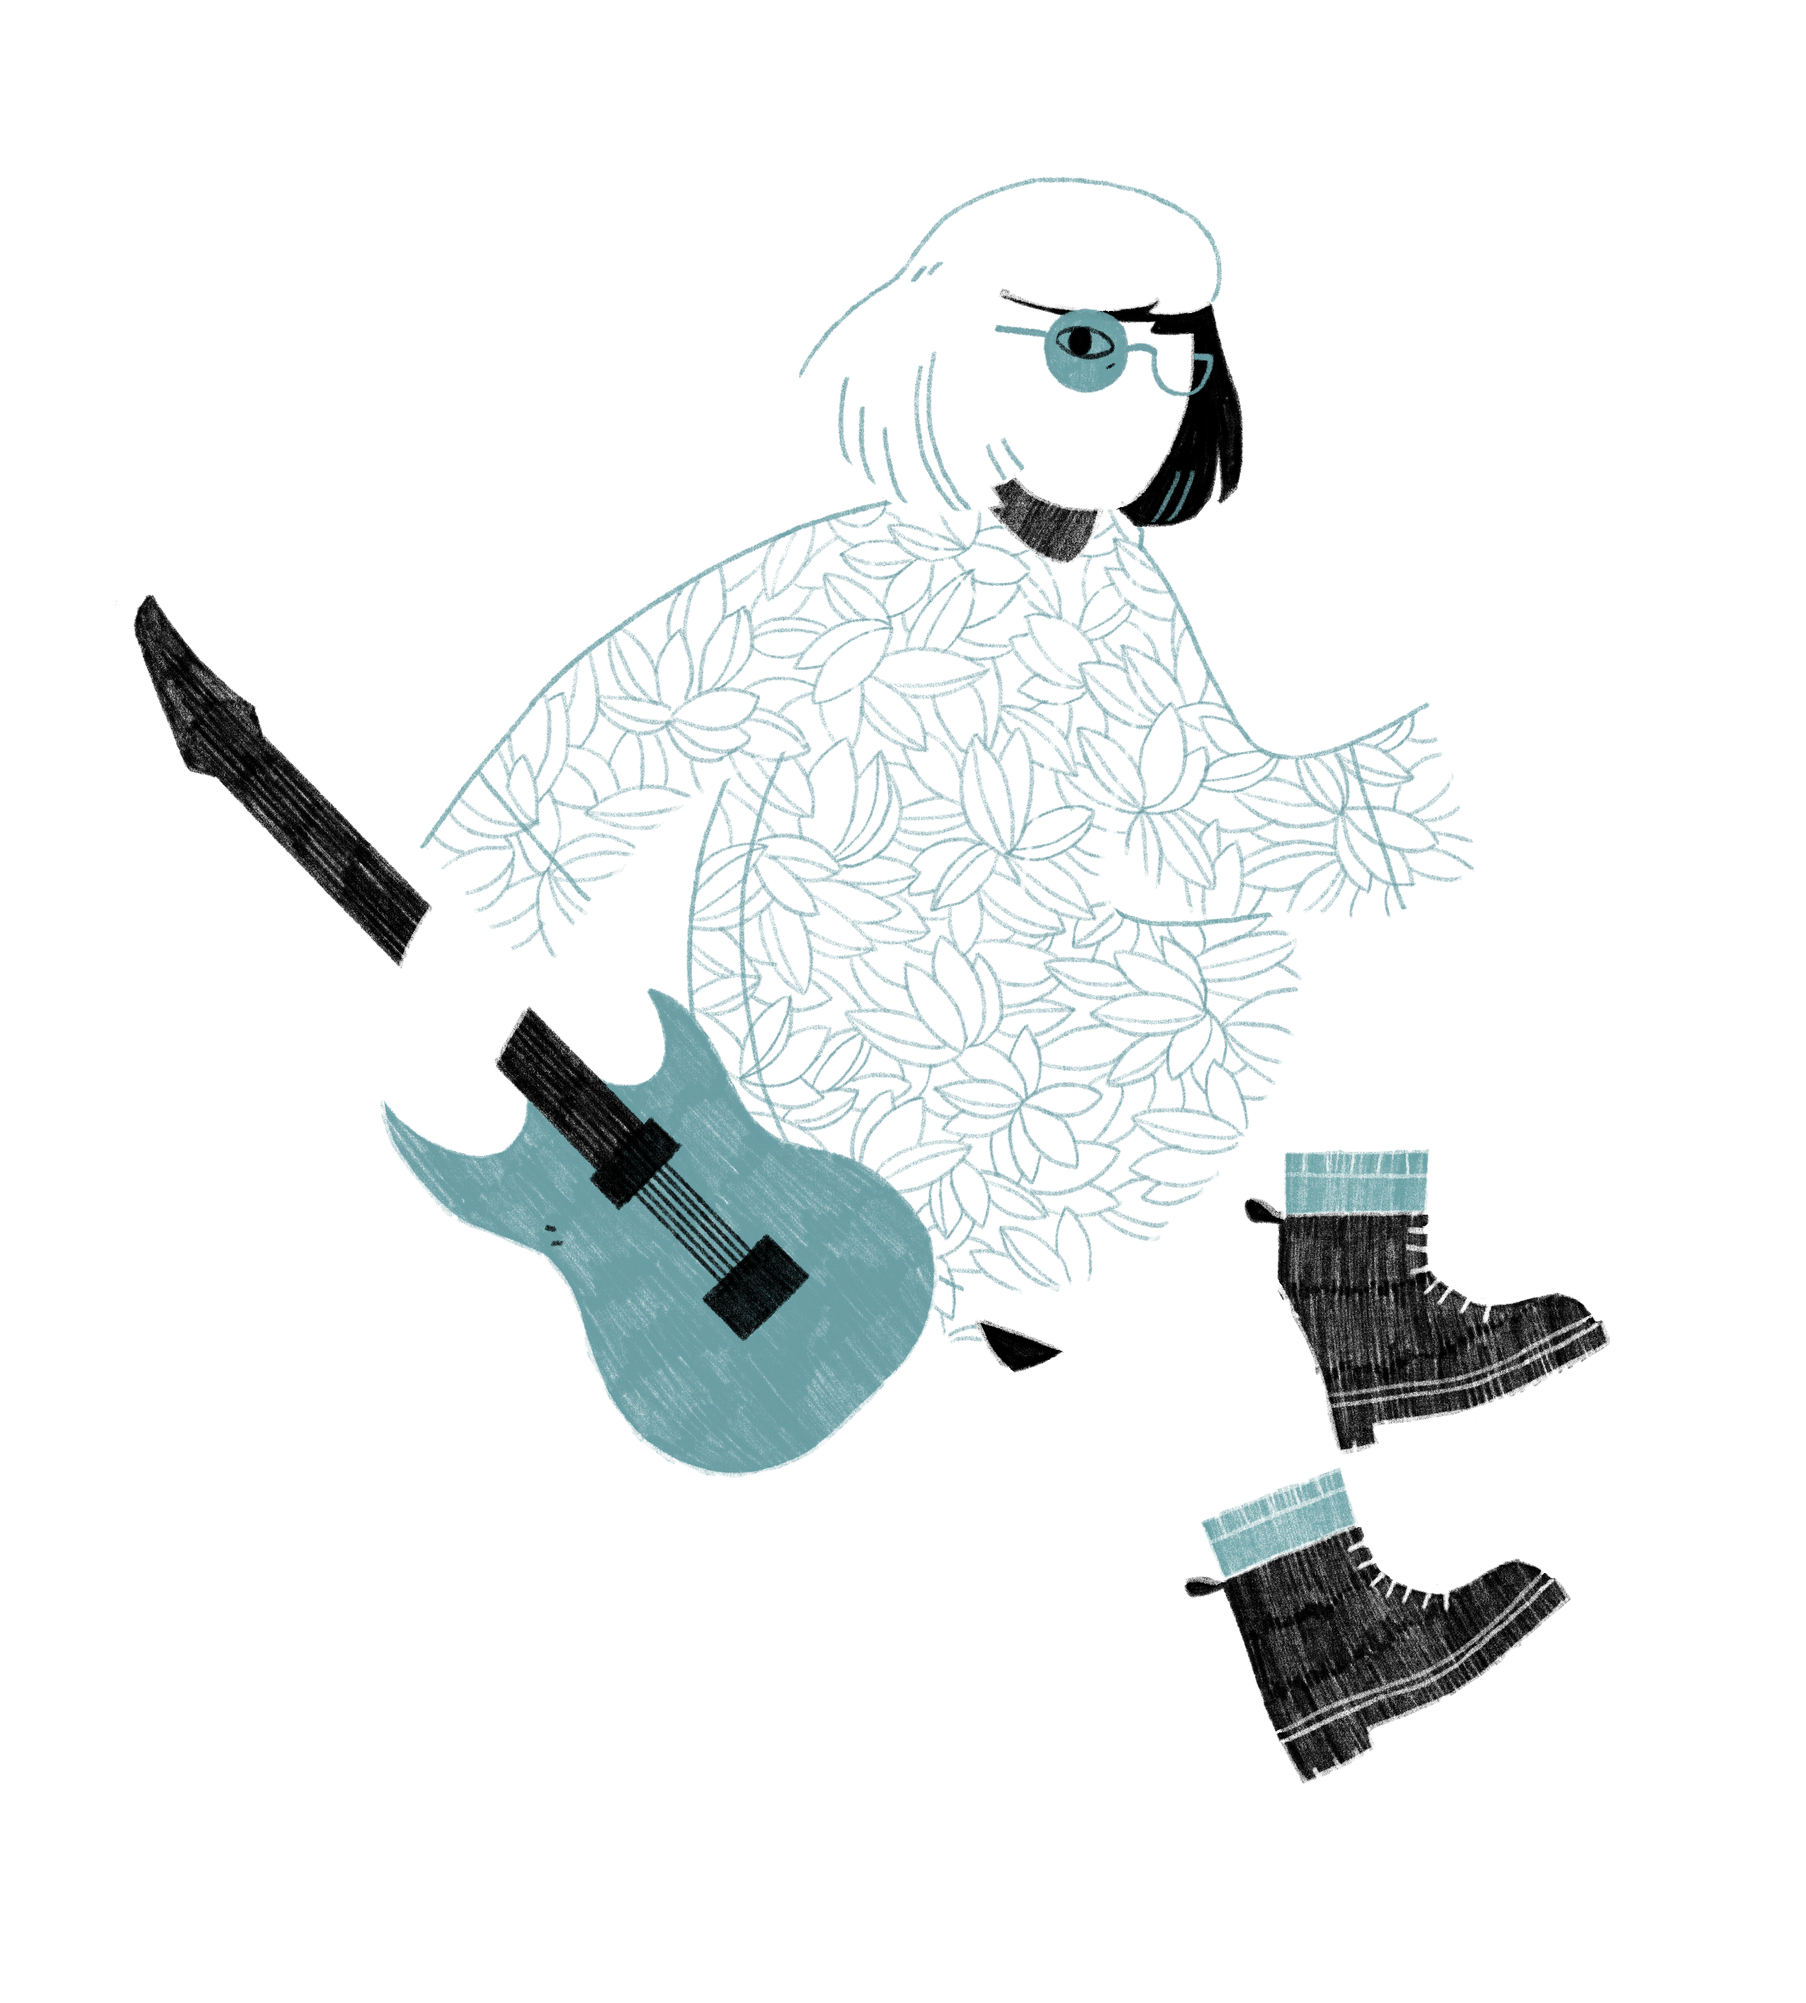
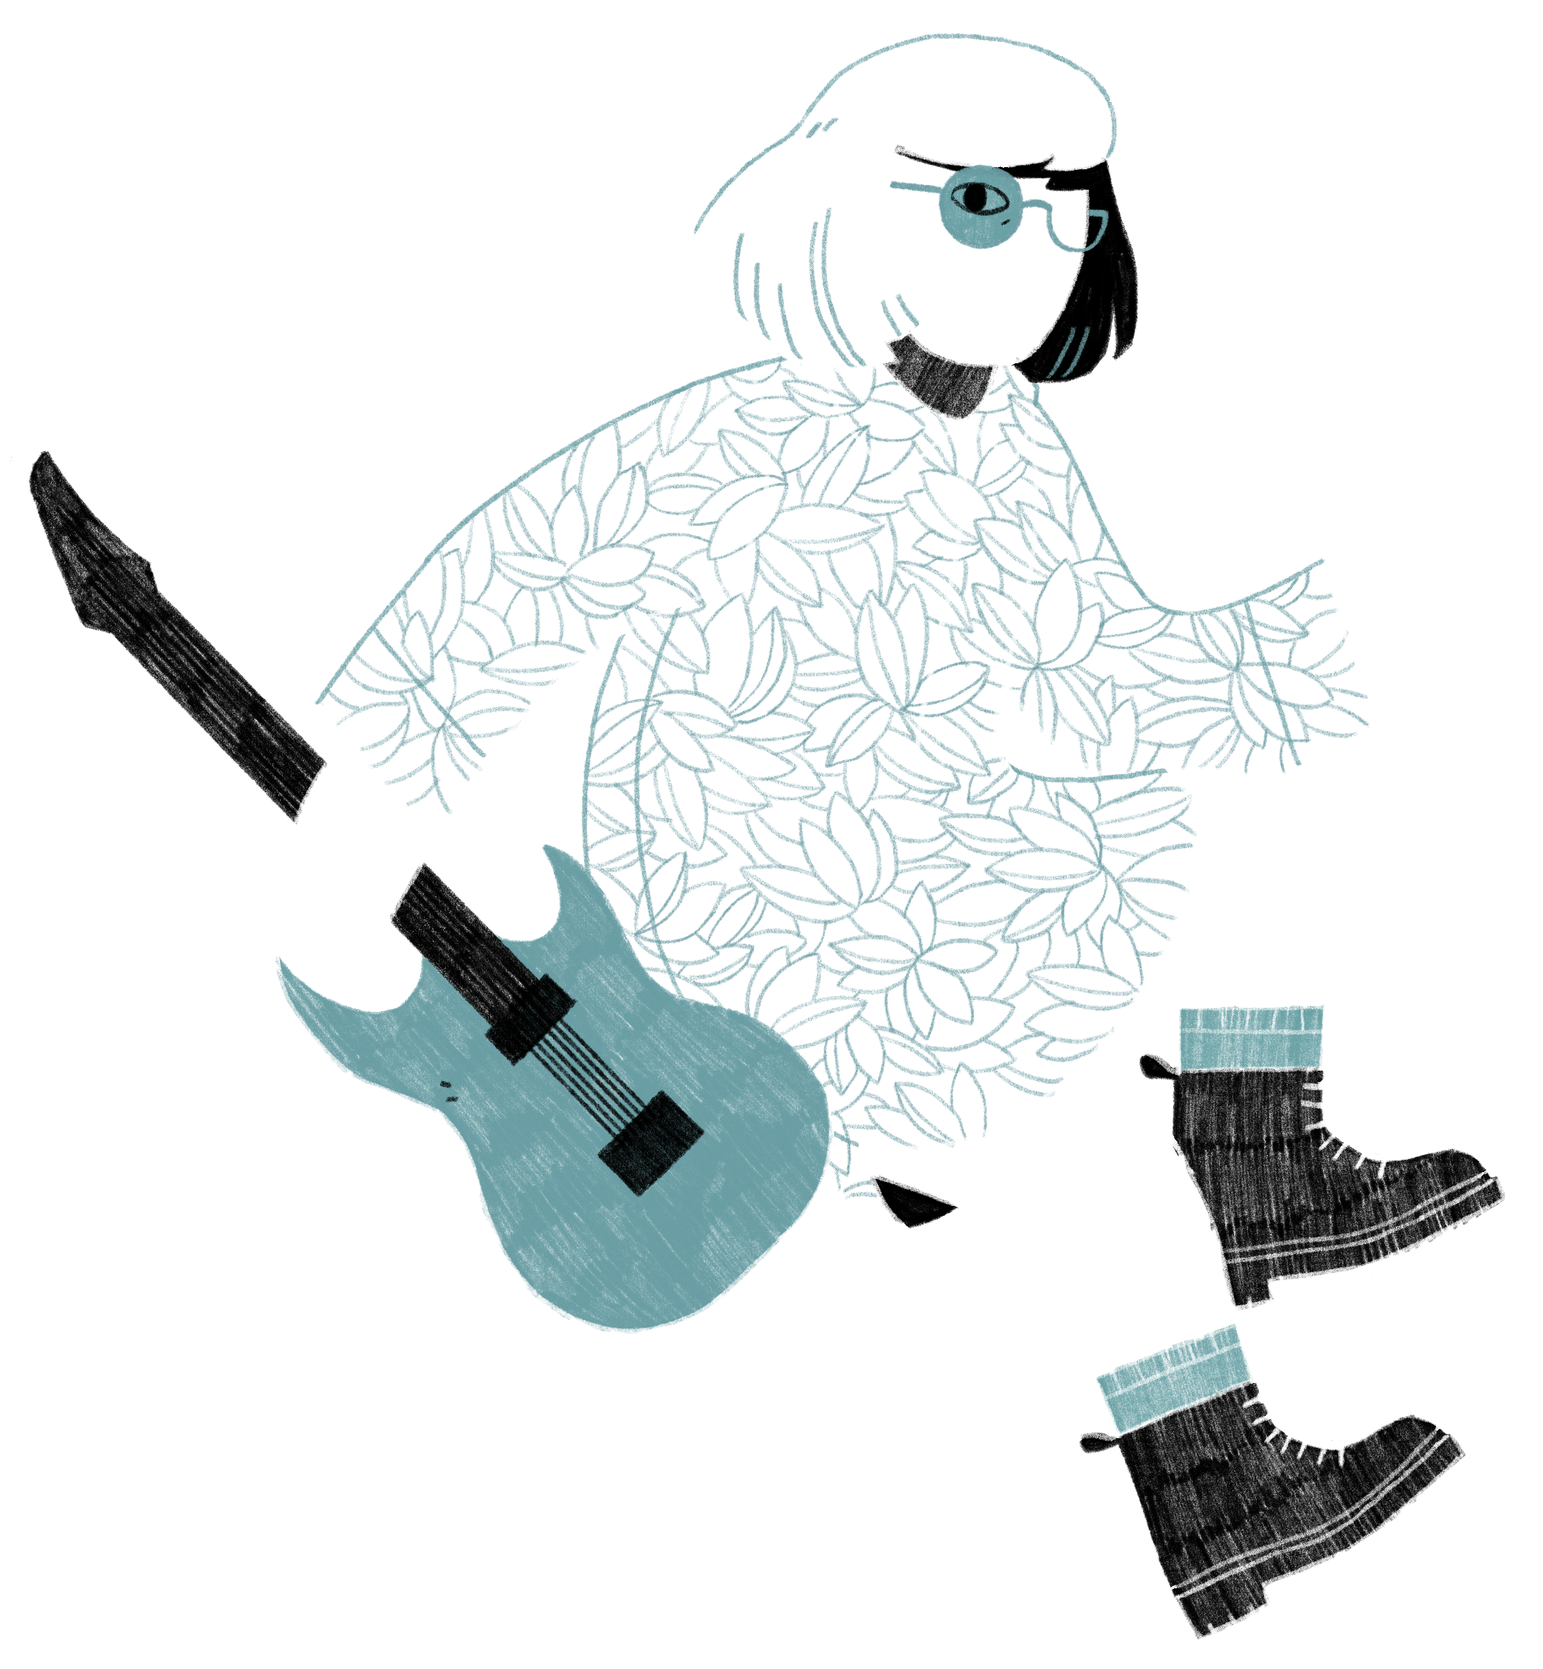
updated index look

diff --git a/index.html b/index.html
@@ -23,6 +23,36 @@
 
 <meta name="author" content="eli rainsberry">
 
+<style>
+* {
+  box-sizing: border-box;
+}
+
+/* Create two equal columns that floats next to each other */
+.column {
+  float: left;
+  width: 50%;
+  height: 10px; /* Should be removed. Only for demonstration */
+}
+
+/* Clear floats after the columns */
+.row:after {
+  content: "";
+  display: table;
+  clear: both;
+}
+
+/* Responsive layout - makes the two columns stack on top of each other instead of next to each other */
+@media screen and (max-width: 600px) {
+  .column {
+    width: 100%;
+  }
+  .events img {
+    width: 100%;	
+  }
+}
+</style>
+
 </head>
 
 <body ontouchstart="">
@@ -43,14 +73,15 @@
 
 
 <div id="events">
-<img src="images/image-lineart.png" width="600px" height="709px" alt="eli"></a>
+<img src="images/image-lineart.png" alt="eli"></a>
 </div> 
 
 <center>
 
-<br>
-<img src="images/text-support.png" width="100px" height="16px" alt="support"></a>
-<br>
+<div class="row">
+  <div class="column">
+    <h4><img src="images/text-support.png" width="100px" height="16px" alt="support"></a>
+    <br>
 <a href="http://elirainsberry.bandcamp.com"><img src="images/nav_bc.png" width="50px" height="50px" alt="bandcamp"></a>
 
 <a href="https://www.itch.io/elirainsberry"><img src="images/nav_itch.png" width="50px" height="50px" alt="itch.io"></a>
@@ -60,12 +91,12 @@
 <a href="http://paypal.me/lizrainsberry"><img src="images/nav_paypal.png" width="50px" height="50px" alt="paypal"></a>
 
 <a href="http://ko-fi.com/elirainsberry"><img src="images/nav_kofi.png" width="60px" height="60px" alt="ko-fi"></a>
+    </h4>
 
-<br>
-<br>
-<img src="images/text-stream.png" width="100px" height="16px" alt="stream"></a>
-<br>
-
+  </div>
+  <div class="column">
+    <h4><img src="images/text-stream.png" width="100px" height="16px" alt="stream"></a>
+    <br>
 <a href="http://soundcloud.com/elirainsberry"><img src="images/nav_sc.png" width="60px" height="60px" alt="soundcloud"></a>
 
 <a href="https://www.youtube.com/channel/UCv1fHq4h_kGAvQcpq0sAcBA"><img src="images/nav_yt.png" width="55px" height="55px" alt="youtube"></a>
@@ -74,14 +105,12 @@
 
 <a href="https://itunes.apple.com/gb/artist/eli-rainsberry/1359194908"><img src="images/buy_itunes.png" width="50px" height="50px" alt="itunes"></a> 
 
-<a href="https://open.spotify.com/artist/6gTMvsgE1Q1iTbowL2JMH0"><img src="images/buy_spot.png" width="45px" height="45px" alt="spotify"></a> 
-
-<br>
+<a href="https://open.spotify.com/artist/6gTMvsgE1Q1iTbowL2JMH0"><img src="images/buy_spot.png" width="45px" height="45px" alt="spotify"></a> <br><br>
+    </h4>
+  </div>
+</div>
 
 </center>
-
-<br><br>
-<iframe width="100%" height="450" scrolling="no" frameborder="no" allow="autoplay" src="https://w.soundcloud.com/player/?url=https%3A//api.soundcloud.com/users/932711&color=%23696969&auto_play=false&hide_related=false&show_comments=true&show_user=true&show_reposts=false&show_teaser=true"></iframe>
 
 
 <script src="https://code.jquery.com/jquery-1.7.1.min.js" integrity="sha256-BbhdlvQf/xTY9gja0Dq3HiwQF8LaCRTXxZKRutelT44=" crossorigin="anonymous"></script><script type="text/javascript">$(document).ready(function(){$("#icons [href]").each(function(){-1<window.location.href.indexOf(this.href)&&$(this).addClass("current")});for(var t=document.getElementsByTagName("iframe"),e=0;e<t.length;e++)t[e].getAttribute("data-src"),t[e].setAttribute("src",t[e].getAttribute("data-src"))})</script> <!--original was jquery-2.2.4.min.js-->

diff --git a/css/global.css b/css/global.css
@@ -152,7 +152,7 @@ iframe {
 }
 
 #blog, #events {
-    padding-bottom: 4%
+    padding-bottom: 0%
 }
 
 #blog, #music {
@@ -248,6 +248,8 @@ a.icon_blog {
     position: absolute;
     bottom: 1.25vw
 }
+
+
 
 @media (min-width:456px) {
     div.project {
@@ -478,17 +480,12 @@ a.icon_blog {
 }
 
 #events img {
-    margin-left: 6.5em;
+    margin-left: 8em;
 }
 
 #events img {
-    width: 600px !important;
-    height: 709px !important;
-    padding-bottom: 1em
-}
-
-#events ul:last-child img {
-    margin-bottom: 0
+    width: 525px !important;
+    height: 549px !important;
 }
 
 #events li {
